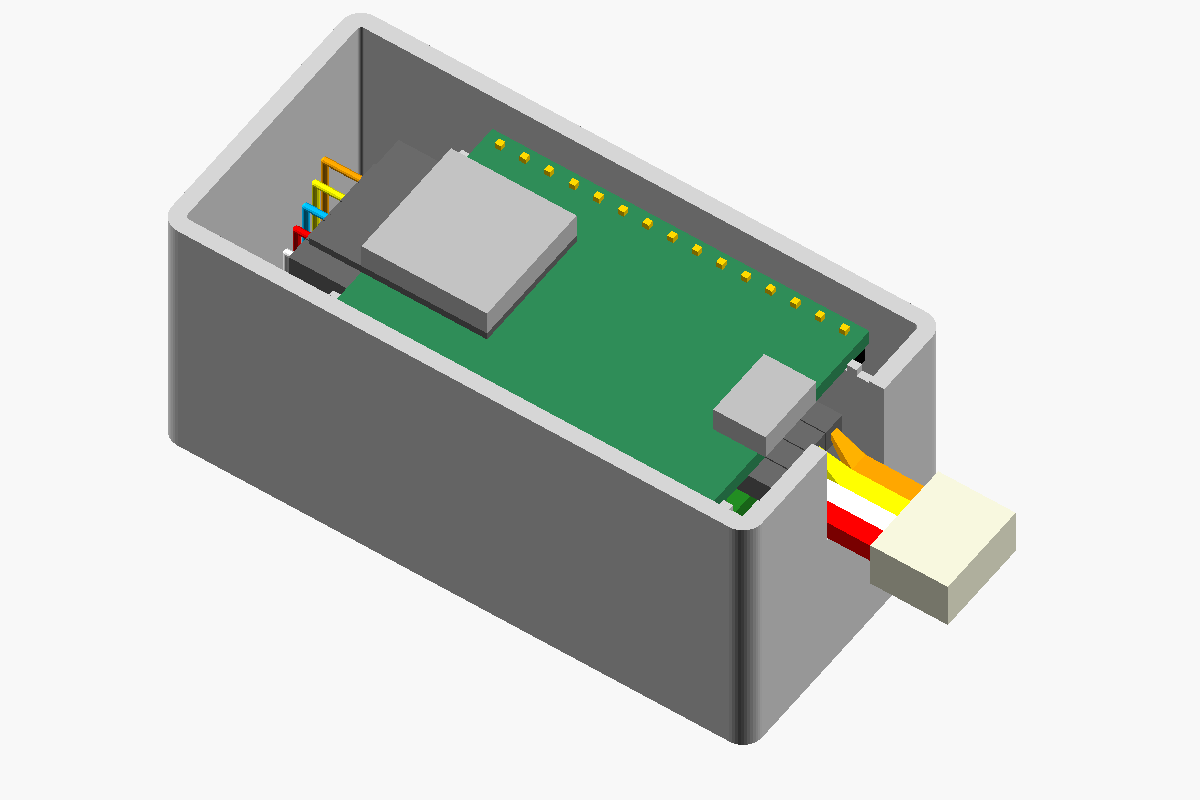
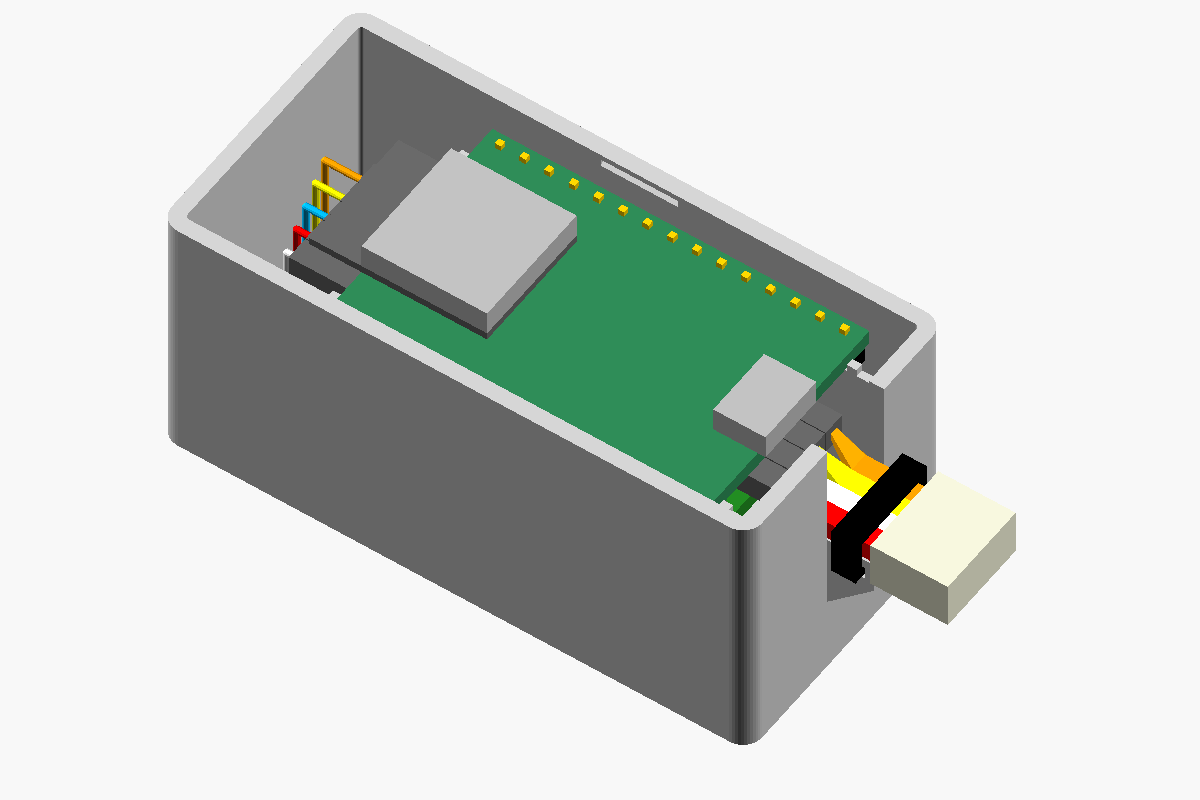
Add snap lid, lead tie block and carrier catches to the enclosure (#8)

Changed region(s): [[0.6783, 0.5625, 0.7708, 0.75], [0.5242, 0.2188, 0.555, 0.25], [0.4933, 0.1875, 0.5242, 0.2188]]

diff --git a/docs/heat-pump.md b/docs/heat-pump.md
@@ -61,6 +61,7 @@ technician. Connecting third-party hardware may affect your warranty
 - **Dupont jumper wires, female to female**: quantity 5. Carrier board to ESP32.
 - **Printed box and lid**: quantity 1 of each. Holds both boards; see
   [Fit the enclosure](#fit-the-enclosure).
+- **Mini zip tie, 2.5 mm wide**: quantity 1. Ties the CN105 lead to the box.
 
 Quantities are per bridge. The Dupont pitch is 2.54 mm. The CN105 housing is
 2.0 mm pitch, so Dupont plastic bodies do not fit the unit end.
@@ -194,7 +195,8 @@ mutually exclusive ways to power the board. So:
 - Flash over USB with CN105 unplugged from the carrier board.
 - Unplug micro-USB before you connect CN105.
 - The closed box has no micro-USB opening. To flash over USB again, open the
-  lid and unplug CN105 first.
+  lid and unplug CN105 first. Pry the lid off at the slot at the antenna end
+  with a small flat screwdriver.
 - Update later over Wi-Fi ([OTA](getting-started.md#ota)).
 
 ## Flash the firmware
@@ -227,7 +229,9 @@ UART0. The serial speed to the heat pump is 2400 baud: the
 ## Fit the enclosure
 
 Status: designed, never printed. The space inside the heat pump unit is
-unmeasured, so check that the box fits before you print it.
+unmeasured, so check that the box fits before you print it. Nothing holding
+the box together has been tested either: the snap lid, the carrier catches and
+the zip tie point are designed, and a test print has to show they hold.
 
 <img src="images/enclosure-closed.png" alt="Render of the closed box: a plain lid-topped box with a notch in one end wall, where four colored wires leave and end in a cream-colored connector housing" width="420">
 
@@ -244,7 +248,8 @@ block shape and the wire routing is illustrative.
 The parts pulled apart. A render, not a photo.
 
 The box holds the carrier board, the ESP32 and the five jumpers. Only the
-CN105 lead leaves it, through the notch.
+CN105 lead leaves it, through the notch. The lid snaps on, and a block outside
+the end wall takes a zip tie that holds the lead.
 
 ### Print the box and lid
 
@@ -266,7 +271,10 @@ CN105 lead leaves it, through the notch.
 3. Set the carrier board in the box, converter side up.
 4. Rest the ESP32 above it, parts up.
 5. Lay the CN105 lead in the notch, with its housing outside the box.
-6. Press the lid on. Its tab clamps the lead in the notch.
+6. Snap the lid on. Its tab clamps the lead in the notch.
+7. Thread the zip tie through the slot in the tie block outside the end wall,
+   around the lead, and pull it snug. The lead then holds against a tug
+   instead of pulling on the notch.
 
 ## Install and check it worked
 

diff --git a/hardware/heatpump-bridge/README.md b/hardware/heatpump-bridge/README.md
@@ -56,11 +56,20 @@ different converter fits only if its pads match the footprint (unverified).
 is a printable two-part box and lid in plain OpenSCAD, with Customizer
 parameters. The ESP32 rests parts-up on two rails between its header rows.
 The carrier board hangs between the same rails on ledges, with the
-right-angle headers on the converter side pointing off the board ends. Every
-Dupont housing stays inside. Only the CN105 lead leaves, through a notch in
-one end wall that the lid tab clamps. There is no micro-USB opening, so the
-lid comes off to flash. The [heat pump guide](../../docs/heat-pump.md#fit-the-enclosure)
-covers printing and assembly.
+right-angle headers on the converter side pointing off the board ends. Small
+hooks on the rails (carrier catches) reach over the carrier's edges to hold
+it down. Every Dupont housing stays inside. Only the CN105 lead leaves,
+through a notch in one end wall that the lid tab clamps. A tie block outside
+that wall takes a zip tie around the lead. The lid snaps on over bumps on its
+lip. There is no micro-USB opening, so the lid comes off to flash: pry it at
+the slot at the antenna end.
+
+Four parameters set the retention, each marked for checking on a test print
+and each set to 0 to disable its feature: `Snap_Depth` (lid bumps, default
+0.4 mm), `Pry_Width` (pry slot, 6 mm), `Catch_Reach` (carrier catches,
+0.5 mm) and `Tie_Width` (zip tie slot, 3 mm, for a 2.5 mm tie). The
+[heat pump guide](../../docs/heat-pump.md#fit-the-enclosure) covers printing
+and assembly.
 
 <img src="../../docs/images/enclosure-section.png" alt="Lengthwise cut through the box: the ESP32 above the carrier board and its blue converter, the CN105 lead leaving through the notch, and translucent orange volumes marking space kept free for the jumpers and the lead" width="420">
 
@@ -69,9 +78,9 @@ PAP-05V-S housing are simplified blocks and the wire routing is illustrative.
 The translucent orange volumes are space reserved for the jumpers and the
 CN105 lead.
 
-Status: designed, never printed, and the space in the heat pump unit is
-unmeasured. Every size is a parameter, and the outer size follows from them:
-render the box to read it.
+Status: designed, never printed, retention untested, and the space in the
+heat pump unit is unmeasured. Every size is a parameter, and the outer size
+follows from them: render the box to read it.
 
 The Customizer parameters are grouped as Part, ESP32, Carrier, Wiring, Box,
 Lid and Preview. Sizes marked "drawing" or "KiCad" come from those sources;
